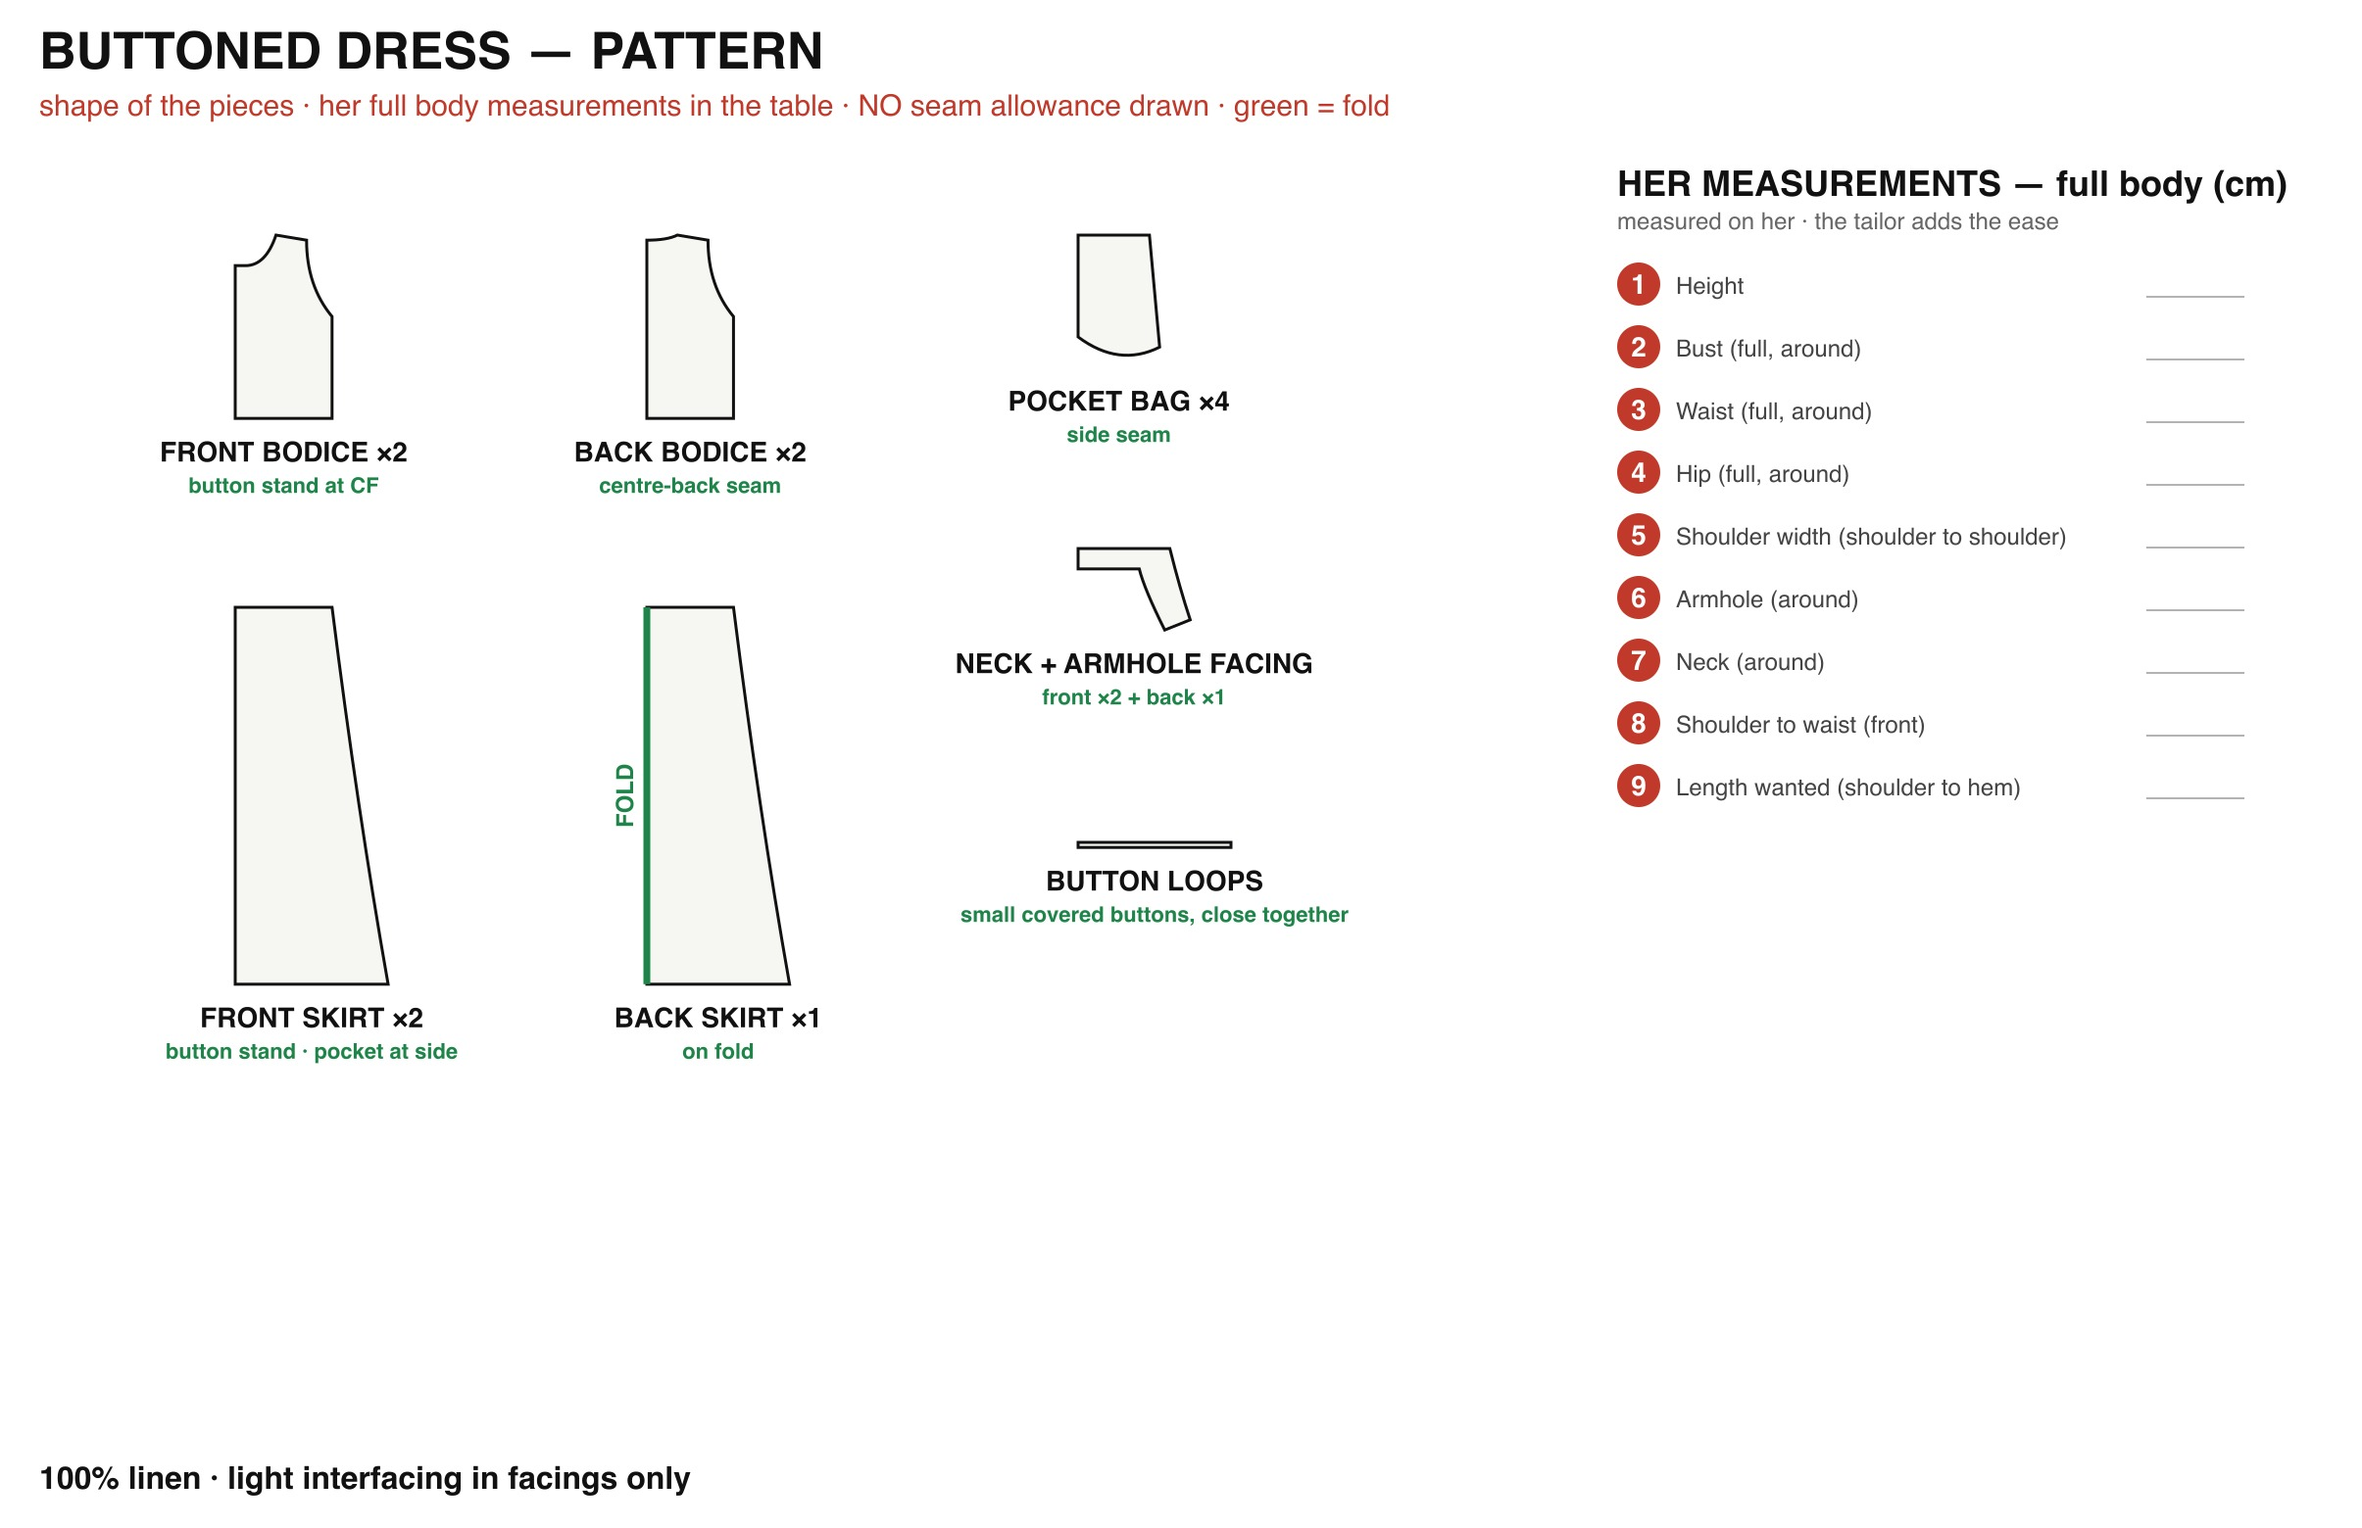
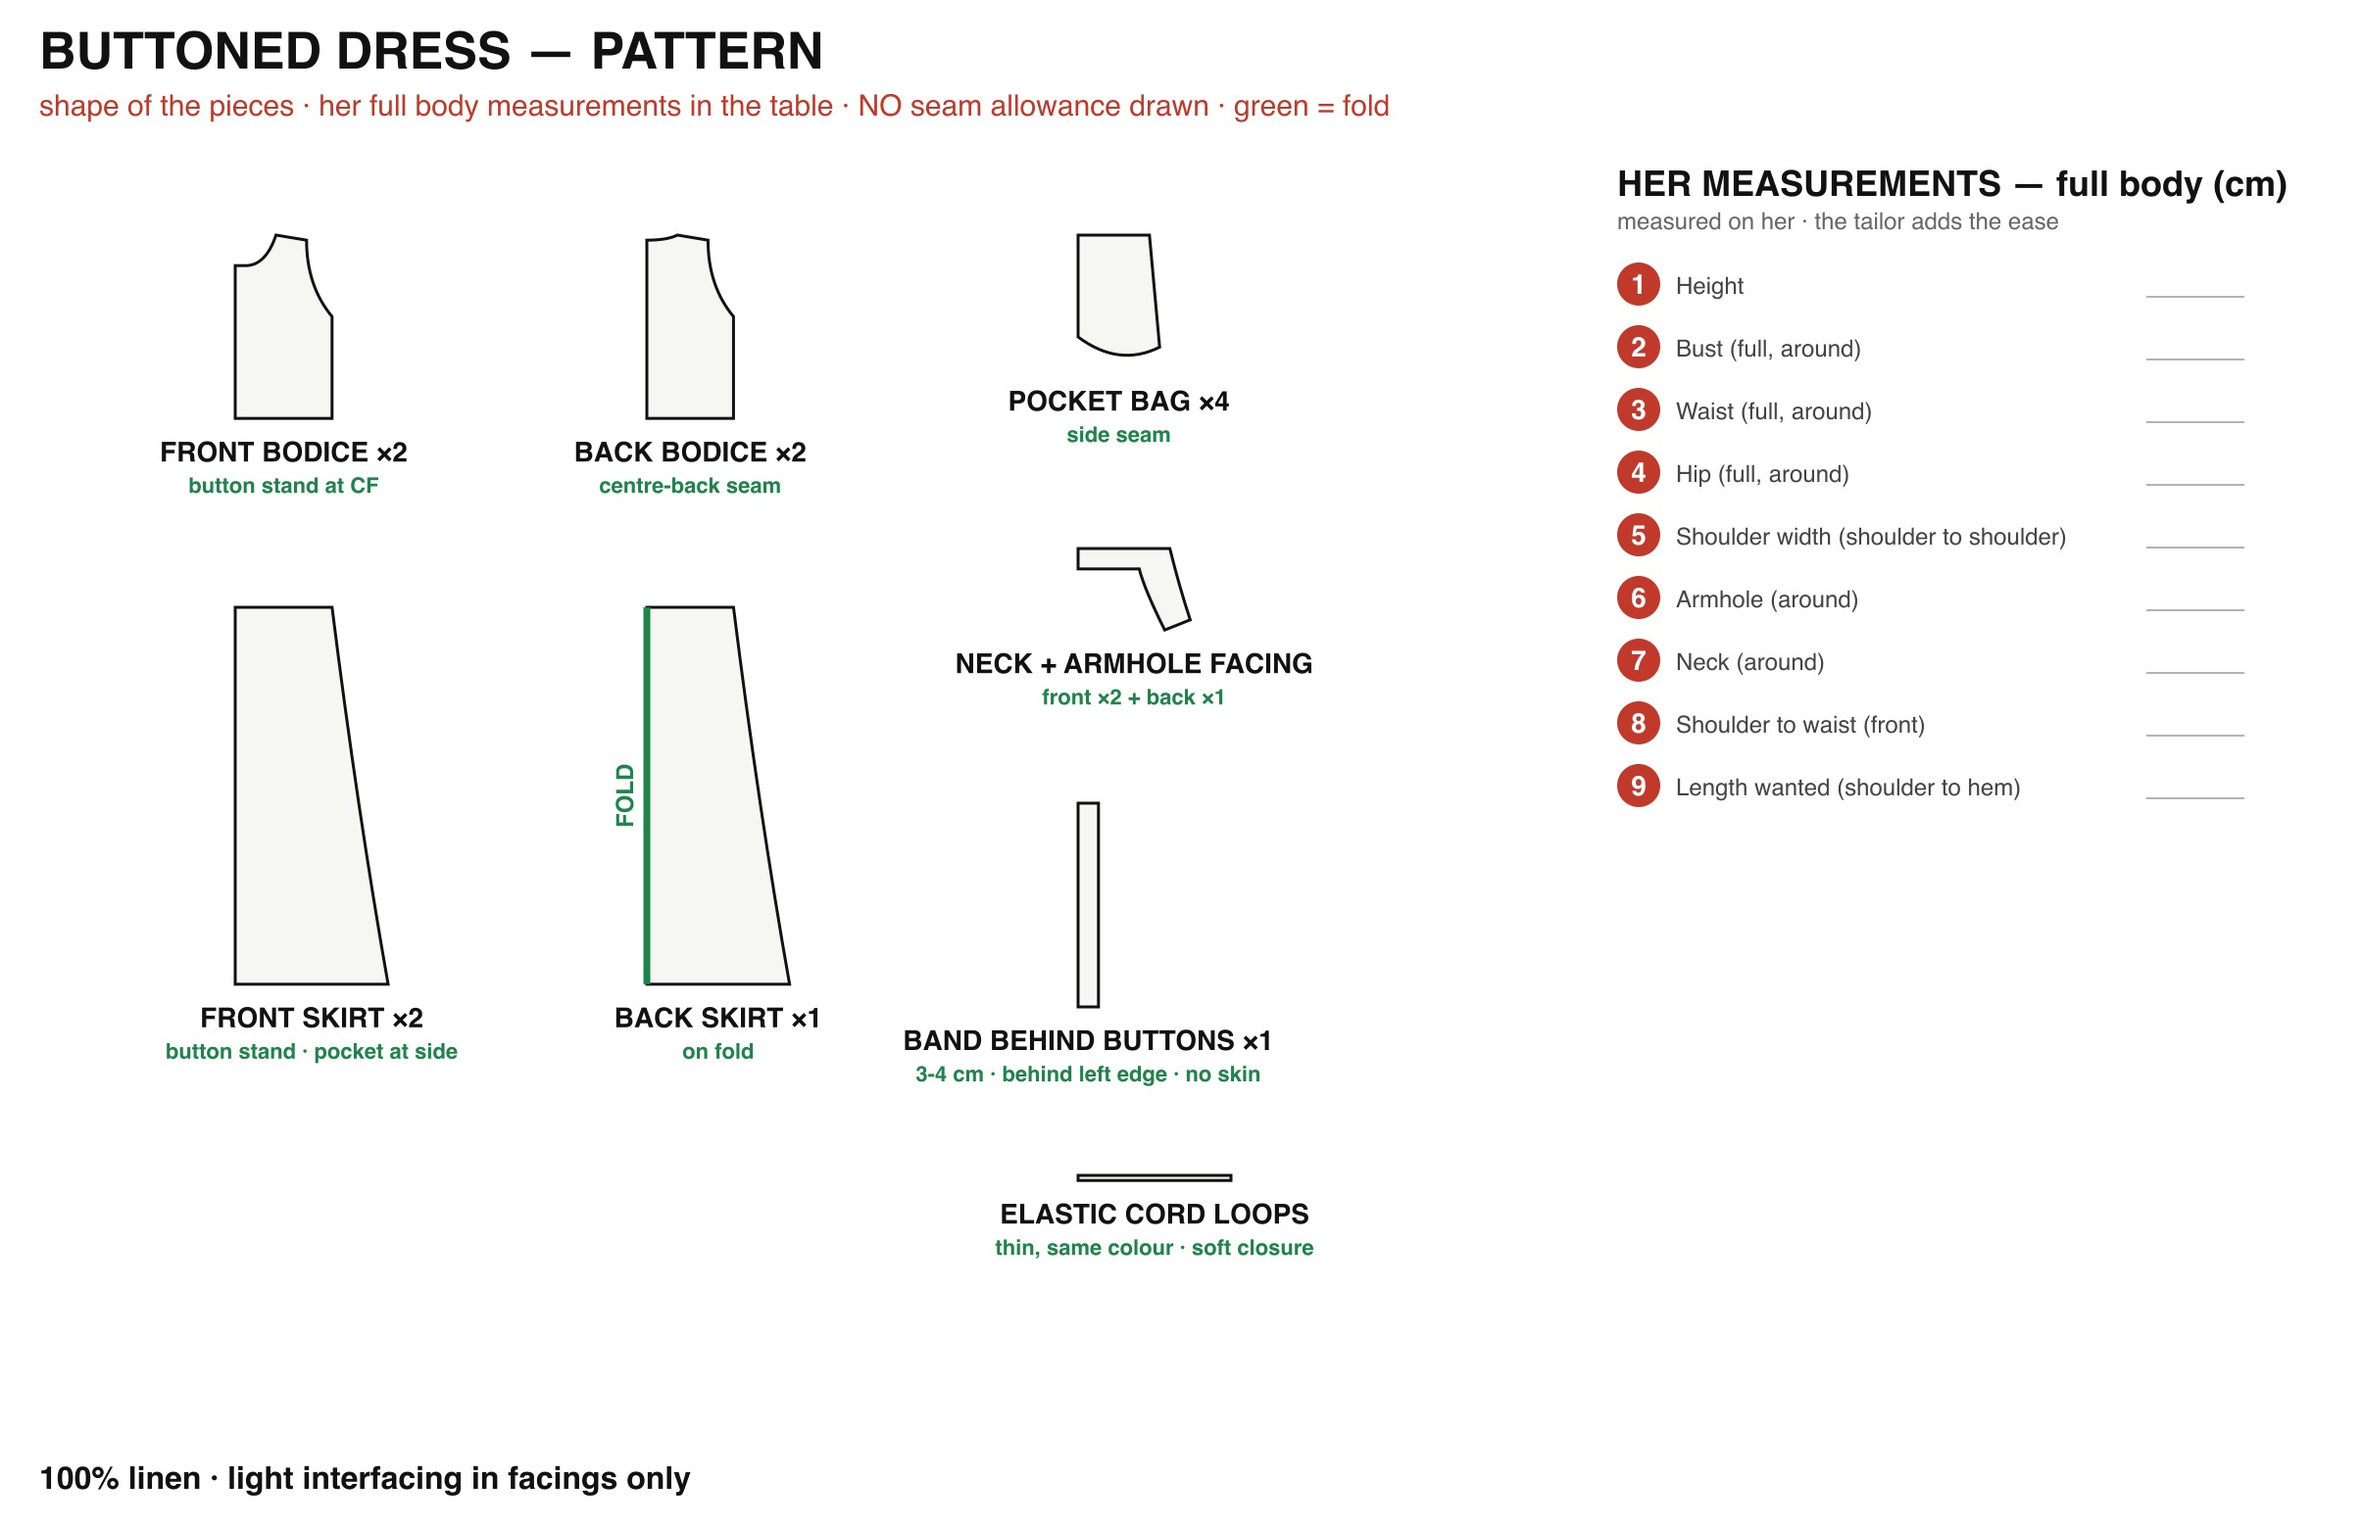
Buttoned dress fit corrections in the tech pack text and pattern (fitted bodice, close armhole, natural waist, elastic cord loops, band behind buttons, small pockets); tailor-sheet supports a FIT page

Changed region(s): [[0.3734, 0.5231, 0.5602, 0.7077], [0.4046, 0.7692, 0.5602, 0.8308]]

diff --git a/website/src/data/construction.ts b/website/src/data/construction.ts
@@ -71,9 +71,15 @@ export const ITEM_CONSTRUCTION: Record<string, ConstructionNotes> = {
     details: [
       { text: "Round neckline, no collar, sleeveless with faced armholes" },
       { text: "Seamed waist at the natural waist, front and back" },
-      { text: "Small fabric-covered buttons close together, centre front from the neck to the hem", view: "front" },
+      { text: "Small fabric-covered buttons close together down the centre front; the dress opens at the bottom below the last button", view: "front" },
       { text: "Side-seam pockets in the skirt" },
-      { text: "Back bodice with a centre-back seam; A-line skirt widening to the hem", view: "back" },
+      { text: "Back bodice with a centre-back seam; WIDE flared skirt, as in the website photo", view: "back" },
+      // ⚠ FIT, founder 2026-11-13 after the first test piece came back wrong.
+      { text: "FITTED bodice: bust darts and waist darts front, darts at the back. Not straight, not loose" },
+      { text: "Armhole CLOSE to the body, cut in like the website photo (narrow shoulder): lies flat at the side, NO gap. Not higher, just close" },
+      { text: "Small buttons close together on a NARROW button stand, loops in thin ELASTIC cord (same colour) so the closure is soft, not rigid; no interfacing in the stand; open at the bottom below the last button", view: "front" },
+      { text: "NO SKIN between the buttons: a small band of the same linen, 3-4 cm wide, sewn BEHIND the left front edge for the whole length of the buttons; outside look unchanged", view: "front" },
+      { text: "SMALL pockets: opening just big enough for a hand, bag hand-deep, flat" },
     ],
   },
   "oversized-shirt": {
